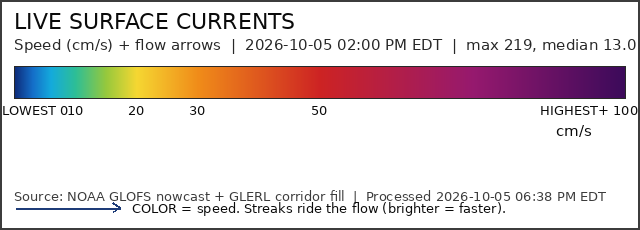
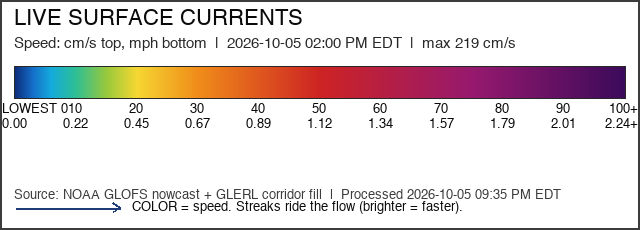
Surface currents key: even 10s ticks, MPH row, 100+/2.24+ top bin

diff --git a/scripts/build_surface_currents.py b/scripts/build_surface_currents.py
@@ -118,16 +118,77 @@ CUR_STOPS = [
 ]
 CUR_LABELS = [
     (0.0, "LOWEST 0"),
-    (5.0, "5"),
     (10.0, "10"),
     (20.0, "20"),
     (30.0, "30"),
+    (40.0, "40"),
     (50.0, "50"),
-    (100.0, "HIGHEST+ 100"),
+    (60.0, "60"),
+    (70.0, "70"),
+    (80.0, "80"),
+    (90.0, "90"),
+    (100.0, "100+"),
 ]
-# legend tick subset: "LOWEST 0" is wide, so the 5 tick would collide
-CUR_LABELS_NO5 = [t for t in CUR_LABELS if t[0] != 5.0]
 CUR_MAX = 100.0
+
+MPH_PER_CMS = 0.0223694  # key-image only: 1 cm/s = 0.0223694 mph.
+# The SOURCE and all data/metadata stay cm/s; this converts display
+# tick labels for the legend's MPH row alone.
+
+
+def cms_to_mph(cms):
+    """Key-image display conversion (legend MPH row only)."""
+    return float(cms) * MPH_PER_CMS
+
+
+def paint_mph_row(path, stops, labels):
+    """MPH equivalents directly under each cm/s tick, key image only.
+
+    Mirrors gradient_scale.draw_scale_legend geometry + de-collision, so
+    MPH values sit under exactly the kept cm/s labels. The lone "cm/s"
+    unit caption is removed (subtitle documents both units instead).
+    """
+    from geospatial_utils import _legend_font
+    img = Image.open(path).convert("RGBA")
+    d = ImageDraw.Draw(img)
+    f_body, f_small = _legend_font(15), _legend_font(13)
+    W, H = img.size
+    bx, by, bw, bh = 14, 66, W - 28, 32
+    vmin, vmax = stops[0][0], stops[-1][0]
+    span = vmax - vmin if vmax > vmin else 1.0
+    # erase the "cm/s" unit caption (units live in the subtitle now)
+    ux, uy = bx + bw - 70, by + bh + 24
+    bb = d.textbbox((ux, uy), "cm/s", font=f_body)
+    d.rectangle([bb[0] - 2, bb[1] - 2, bb[2] + 2, bb[3] + 2],
+                fill=(255, 255, 255, 235))
+    # same de-collision as draw_scale_legend: endpoints kept, middles
+    # only when clear of kept neighbors
+    placed = []
+    for val, text in labels:
+        frac = min(max((val - vmin) / span, 0.0), 1.0)
+        x = bx + int(frac * (bw - 1))
+        tw = d.textlength(text, font=f_small)
+        placed.append((val, x, tw, text))
+
+    def _clear(c, boxes):
+        return all(c[1] - c[2] / 2 > b[1] + b[2] / 2 + 2
+                   or c[1] + c[2] / 2 < b[1] - b[2] / 2 - 2 for b in boxes)
+    kept = [placed[0]] if placed else []
+    last = placed[-1] if len(placed) > 1 else None
+    for cand in placed[1:-1]:
+        if _clear(cand, kept) and (last is None or _clear(cand, [last])):
+            kept.append(cand)
+    if last is not None:
+        kept.append(last)
+    for val, x, tw, text in kept:
+        mph = f"{cms_to_mph(val):.2f}"
+        if val >= stops[-1][0]:
+            mph += "+"  # open-ended top bin, matches the "100+" tick
+        mw = d.textlength(mph, font=f_small)
+        d.text((min(max(x - mw / 2, 2), W - mw - 2), by + bh + 19),
+               mph, font=f_small, fill=(10, 10, 10))
+    img.save(path)
+    return [v for v, _x, _tw, _t in kept]
 
 # Narrow product-local river-water boxes. The shared NOAA shoreline mask
 # (medium-resolution, built for open-lake coastlines) reads 0 over most
@@ -758,14 +819,16 @@ def _build(glofs_pick, fvcom_pick, source_id, now):
     data_iso = max(valid_isos)
     data_time_utc = valid_to_det(data_iso)
     unit = CONFIG["display_units"]
-    subtitle = (f"Speed (cm/s) + flow arrows  |  {data_time_utc}  |  "
-                f"max {cur_max:.0f}, median {cur_med:.1f} cm/s")
+    subtitle = (f"Speed: cm/s top, mph bottom  |  {data_time_utc}  |  "
+                f"max {cur_max:.0f} cm/s")
     lw, lh = draw_scale_legend(
         os.path.join(stage_prod, "legend.png"), CONFIG["title"], subtitle,
-        "cm/s", CUR_STOPS, CUR_LABELS_NO5,
+        "cm/s", CUR_STOPS, CUR_LABELS,
         f"Source: NOAA GLOFS nowcast + GLERL corridor fill  |  "
         f"Processed {now_det_str()}",
         note=None)
+    paint_mph_row(os.path.join(stage_prod, "legend.png"),
+                  CUR_STOPS, CUR_LABELS)
     paint_sample_arrow(os.path.join(stage_prod, "legend.png"))
     scale_html = (
         "Surface-current speed (centimeters per second, one continuous "

diff --git a/scripts/selftest.py b/scripts/selftest.py
@@ -518,6 +518,10 @@ def main():
     # integrated paths (never a preset lattice): orientation and position
     # both come from the field.
     from build_surface_currents import paint_flow_arrows as _cur_flow
+    from build_surface_currents import cms_to_mph as _cmph
+    check("cur-mph-10", abs(_cmph(10.0) - 0.22) < 0.005, _cmph(10.0))
+    check("cur-mph-50", abs(_cmph(50.0) - 1.12) < 0.005, _cmph(50.0))
+    check("cur-mph-100", abs(_cmph(100.0) - 2.24) < 0.005, _cmph(100.0))
     from build_surface_currents import speed_dir as _cur_sd
     from build_surface_currents import trace_streamline as _trace
     _sp, _hd = _cur_sd(1.0, 0.0)
